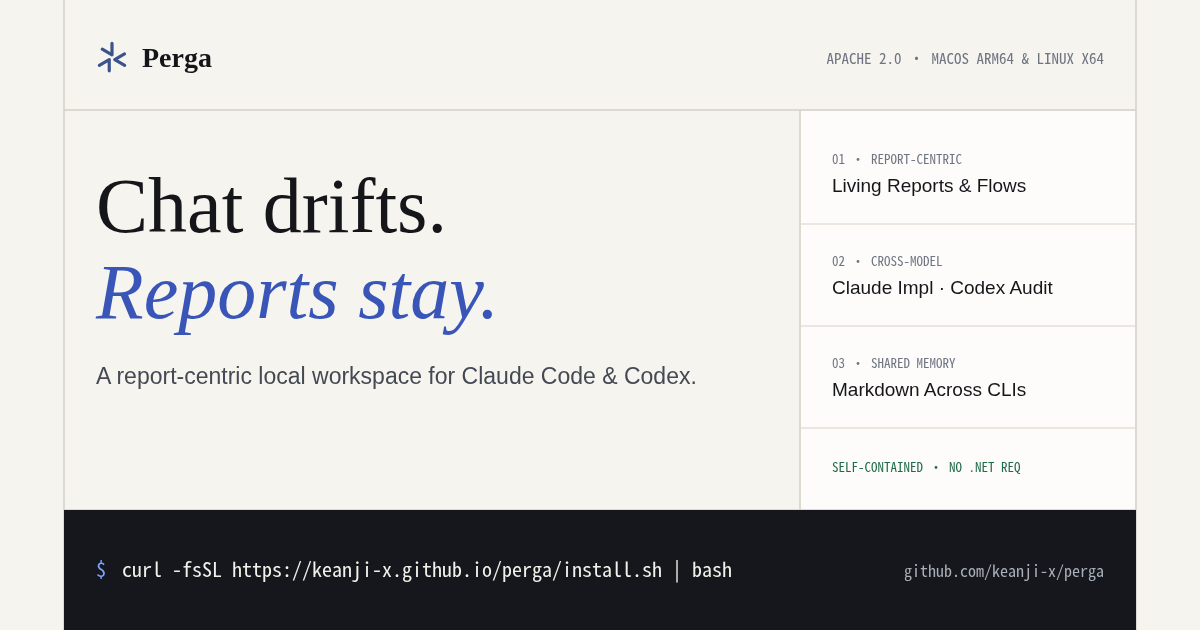
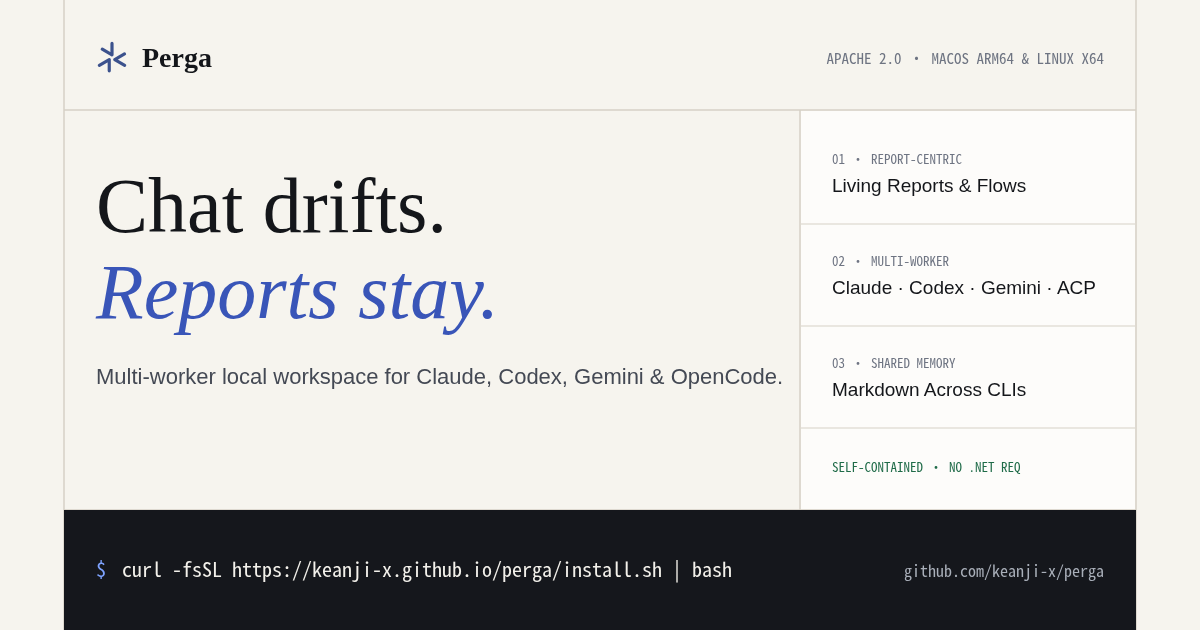
Highlight multi-worker multi-backend support across Claude, Codex, Gemini, OpenCode, and ACP

Changed region(s): [[0.0617, 0.573, 0.6475, 0.6333], [0.74, 0.4524, 0.925, 0.4825], [0.7092, 0.3921, 0.8017, 0.4222]]

diff --git a/site/src/App.tsx b/site/src/App.tsx
@@ -28,9 +28,9 @@ const TRACK_TABS: ReadonlyArray<Readonly<{
   {
     id: 'delivery',
     label: 'Engineering',
-    capability: 'MULTI-AGENT FLOW',
+    capability: 'MULTI-WORKER FLOW',
     trackName: 'auth-session-hardening',
-    meta: 'Claude implements · Codex reviews read-only · Waits for CI',
+    meta: 'Parallel Claude & Gemini workers · Codex read-only review · Waits for CI',
     sourceUrl: 'https://github.com/keanji-x/perga/tree/main/templates/agents-delivery',
     sourceLabel: 'agents-delivery',
   },
@@ -113,7 +113,7 @@ export function App() {
               Chat drifts. <em>Reports stay.</em>
             </h1>
             <p className="site-tagline">
-              A report-centric local workspace for multi-day <strong>Claude Code</strong> &amp; <strong>Codex</strong> work.
+              A report-centric local workspace for multi-worker <strong>Claude Code</strong>, <strong>Codex</strong>, <strong>Gemini</strong>, <strong>OpenCode</strong> &amp; ACP sessions.
             </p>
 
             <div className="site-install-row" id="install">
@@ -179,7 +179,7 @@ export function App() {
                     <div className="site-flow-drawer">
                       <div className="site-flow-drawer-head">
                         <span>flow.json (excerpt)</span>
-                        <span>Condensed from 5-node graph · Claude impl → Codex review → CI wait</span>
+                        <span>Condensed from 5-node graph · Parallel Claude + Gemini workers → Codex review → CI wait</span>
                       </div>
                       <pre className="site-flow-code"><code>{DEV_DELIVERY_FLOW_JSON_EXCERPT}</code></pre>
                     </div>
@@ -219,8 +219,8 @@ export function App() {
           </div>
           <div className="site-pillar">
             <span className="site-pillar-num">02</span>
-            <h2>Models check each other</h2>
-            <p>Let Claude Code implement behind a local test gate, then hand the diff to Codex in read-only mode. Step in and steer any live worker mid-turn.</p>
+            <h2>Multi-worker across backends</h2>
+            <p>Run parallel workers across Claude Code, Codex, Gemini, OpenCode, or any ACP CLI inside one track — with local test gates, read-only cross-model audits, and live mid-turn steering.</p>
           </div>
           <div className="site-pillar">
             <span className="site-pillar-num">03</span>
@@ -235,14 +235,14 @@ export function App() {
             <span className="site-kicker">ONE MORE THING</span>
             <h2>One memory, shared across CLIs.</h2>
             <p>
-              Project rules shouldn&apos;t stay trapped in separate <code>CLAUDE.md</code> files or forgotten chats. Perga keeps them as plain Markdown notes shared across <strong>Claude Code</strong>, <strong>Codex</strong>, and every new task — so you never repeat the same constraints twice.
+              Project rules shouldn&apos;t stay trapped in separate <code>CLAUDE.md</code> files or forgotten chats. Perga keeps them as plain Markdown notes shared across <strong>Claude Code</strong>, <strong>Codex</strong>, <strong>Gemini</strong>, <strong>OpenCode</strong>, and every new task — so you never repeat the same constraints twice.
             </p>
           </div>
 
           <div className="site-sheet site-sheet-memory">
             <div className="site-sheet-bar">
               <span className="site-sheet-title">Project Memory</span>
-              <span className="site-sheet-badge">PLAIN MARKDOWN · SHARED BY CLAUDE CODE &amp; CODEX</span>
+              <span className="site-sheet-badge">PLAIN MARKDOWN · SHARED ACROSS CLAUDE, CODEX, GEMINI &amp; OPENCODE</span>
             </div>
             <WidgetFrame
               src="./widgets/entries.html"

diff --git a/site/index.html b/site/index.html
@@ -4,17 +4,17 @@
   <meta charset="utf-8" />
   <meta name="viewport" content="width=device-width, initial-scale=1" />
   <title>Perga — Chat drifts. Reports stay.</title>
-  <meta name="description" content="A report-centric local workspace for multi-day Claude Code & Codex work — living reports, cross-model review, declarative flows, and shared Markdown memory. Apache 2.0, macOS Apple Silicon & Linux x64." />
+  <meta name="description" content="A report-centric local workspace for multi-worker AI sessions across Claude Code, Codex, Gemini, OpenCode, and ACP — living reports, cross-model review, declarative flows, and shared Markdown memory. Apache 2.0, macOS Apple Silicon & Linux x64." />
   <meta property="og:type" content="website" />
   <meta property="og:url" content="https://keanji-x.github.io/perga/" />
   <meta property="og:title" content="Perga — Chat drifts. Reports stay." />
-  <meta property="og:description" content="A report-centric local workspace for multi-day Claude Code & Codex work: living reports, cross-model review, declarative flows, and shared Markdown memory." />
+  <meta property="og:description" content="A report-centric local workspace for multi-worker Claude Code, Codex, Gemini, OpenCode & ACP sessions: living reports, cross-model review, declarative flows, and shared Markdown memory." />
   <meta property="og:image" content="https://keanji-x.github.io/perga/og-card.png" />
   <meta property="og:image:width" content="1200" />
   <meta property="og:image:height" content="630" />
   <meta name="twitter:card" content="summary_large_image" />
   <meta name="twitter:title" content="Perga — Chat drifts. Reports stay." />
-  <meta name="twitter:description" content="A report-centric local workspace for multi-day Claude Code & Codex work. Living reports, cross-model review, and shared Markdown memory." />
+  <meta name="twitter:description" content="A report-centric local workspace for multi-worker Claude Code, Codex, Gemini, OpenCode & ACP sessions. Living reports, cross-model review, and shared Markdown memory." />
   <meta name="twitter:image" content="https://keanji-x.github.io/perga/og-card.png" />
   <link rel="icon" type="image/svg+xml" href="./favicon.svg?v=2" />
   <link rel="icon" type="image/png" sizes="192x192" href="./icon-192.png" />

diff --git a/site/src/showcaseData.ts b/site/src/showcaseData.ts
@@ -74,8 +74,8 @@ export const DEV_DELIVERY_FLOW: FlowProjection = {
       doKind: 'run',
       role: 'impl',
       access: 'read_write',
-      provider: 'claude',
-      model: 'claude-sonnet-5-5',
+      provider: 'acp:antigravity',
+      model: 'gemini-4-neon',
       status: 'done',
       outcome: 'ok',
       outcomeSummary: 'Updated generated TypeScript contracts and composer attachment tests.',
@@ -169,11 +169,11 @@ export const DEV_DELIVERY_FLOW: FlowProjection = {
   ],
 };
 
-/** Condensed excerpt of flow.json showing the key cross-model & background-wait nodes. */
+/** Condensed excerpt of flow.json showing parallel multi-backend workers & background wait. */
 export const DEV_DELIVERY_FLOW_JSON_EXCERPT = `{
   "rev": 14,
   "nodes": [
-    // ... spec + impl-fe omitted for brevity
+    // ... spec node omitted for brevity
     {
       "id": "impl-backend",
       "when": { "after": ["spec"] },
@@ -182,6 +182,16 @@ export const DEV_DELIVERY_FLOW_JSON_EXCERPT = `{
         "provider": "claude",
         "model": "claude-sonnet-5-5",
         "gate": "dotnet test Perga.sln"
+      }
+    },
+    {
+      "id": "impl-fe",
+      "when": { "after": ["spec"] },
+      "do": {
+        "kind": "run",
+        "provider": "acp:antigravity",
+        "model": "gemini-4-neon",
+        "gate": "cd fe && npm run lint && npm test"
       }
     },
     {

diff --git a/README.md b/README.md
@@ -1,12 +1,12 @@
 # Perga
 
-**Move multi-day Claude Code & Codex work out of scrolling chat tabs — living reports, enforced cross-model review, 0-token watches, and governed local memory.**
+**Move multi-day AI work across Claude Code, Codex, Gemini, OpenCode & ACP out of scrolling chat tabs — living reports, multi-worker flows, enforced cross-model review, and governed local memory.**
 
 [Homepage](https://keanji-x.github.io/perga/) · [Quickstart](#quickstart) · [Built-in Protocols](#built-in-protocols) · [Documentation](#documentation) · [Releases](https://github.com/keanji-x/perga/releases)
 
-Self-contained native packages for **macOS on Apple Silicon (`arm64`)** and **Linux `x64`** — no .NET runtime installation required. Both packages bundle the Host, native Rust terminal bridge, OAR agent bridge, and web interface.
+Self-contained native packages for **macOS on Apple Silicon (`arm64`)** and **Linux `x64`** — no .NET runtime installation required. Both packages bundle the Host, native Rust terminal bridge, OAR multi-backend agent bridge, and web interface.
 
-Perga moves multi-day and multi-week work — maintaining a repository, driving engineering OKRs, or running ongoing research — out of drifting chat sessions. Each goal gets its own isolated **Track**: conversation stays in the side pane while the main view continuously distills a read-only living report backed by kernel-verified facts. Orchestrate the CLIs you already use (Claude Code, Codex, ACP) with lightweight protocols, enforced cross-model review, zero-token external watches, and shared human-AI Markdown memory.
+Perga moves multi-day and multi-week work — maintaining a repository, driving engineering OKRs, or running ongoing investment research — out of drifting chat sessions. Each goal gets its own isolated **Track**: conversation stays in the side pane while the main view continuously distills a read-only living report backed by kernel-verified facts. Through the bundled **OAR bridge**, orchestrate parallel workers across the CLIs you already use (**Claude Code, Codex, Gemini / Antigravity, OpenCode, and any ACP agent**) with lightweight protocols, enforced cross-model review, background external watches, and shared human-AI Markdown memory.
 
 <!--
 MEDIA SLOT: Once you capture your real desktop screenshot / 60s demo clip, place them in docs/assets/ and uncomment:
@@ -17,7 +17,7 @@ MEDIA SLOT: Once you capture your real desktop screenshot / 60s demo clip, place
 
 - **Living reports over drifting chat.** Keep conversation in the margin and anchor long-running state in a read-only editorial report combining schema-validated ledgers with non-forgeable kernel facts (task status, actual model, gate exit codes, timestamps). Context limits trigger native compaction or report-anchored epoch handover.
 - **Governed shared human-AI memory.** Stop choosing between goldfish amnesia and bloated `CLAUDE.md` / auto-memory drift. Store durable knowledge as readable UTF-8 Markdown scoped by **Area** and **Global**, shared across Claude Code, Codex, and ACP. Task sessions can only read, recall, or `memory_propose` — a dedicated **Memory Planner** governs writes with ETag locking and hard byte budgets, plus one-click *Save to Memory* and `@mention` recall in chat.
-- **Heterogeneous agents with shared control.** A single Lead coordinates Claude Code, Codex, and ACP workers inside the same track. Execution is structurally separated from acceptance, reviews can be enforced on a different model, and humans share the exact same live stream, steering, interrupt, and model controls as the Lead.
+- **Multi-worker across backends with shared control.** A single Lead coordinates parallel workers across Claude Code, Codex, Gemini (Antigravity), OpenCode, and other ACP/OAR runtimes inside the same track. Execution is structurally separated from acceptance, reviews can be enforced on a different model, and humans share the exact same live stream, steering, interrupt, and model controls as the Lead.
 - **Unified flows and zero-token watches.** A lightweight declarative `flow.json` unifies parallel dependencies, `cron`/`at` schedules, declarative child Track spawning (`do.kind: "track"`), and zero-token external probes (`prChecks` or shell commands). Nothing spends tokens while idle; state changes and exceptions wake the Lead to decide next steps.
 - **Real isolated workspaces, local sovereignty.** Isolate tracks via Git worktrees, Jujutsu (`jj`), Linux OverlayFS (shared prewarmed build caches), or remote SSH targets. Terminals run in a native Rust bridge (`perga-term-bridge`), and all state stays in a local SQLite database you own.
 - **Zero-template start, progressive structure.** Start any track with a single sentence. Attach a lightweight built-in protocol (27–40 lines) or ask the Lead to author one only when recurring rules and guardrails emerge.
@@ -35,7 +35,7 @@ MEDIA SLOT: Once you capture your real desktop screenshot / 60s demo clip, place
 
 - **No .NET runtime required** — release archives are self-contained native binaries for macOS Apple Silicon (`arm64`) and Linux `x64` (including Windows WSL2).
 - **Node.js 24 or later** for the bundled OAR agent bridge.
-- At least one configured provider CLI you already use, such as `claude` or `codex`.
+- At least one configured provider CLI you already use, such as `claude`, `codex`, `gemini` / Antigravity, `opencode`, or another ACP agent.
 
 ### One-line install (macOS Apple Silicon & Linux x64)
 
